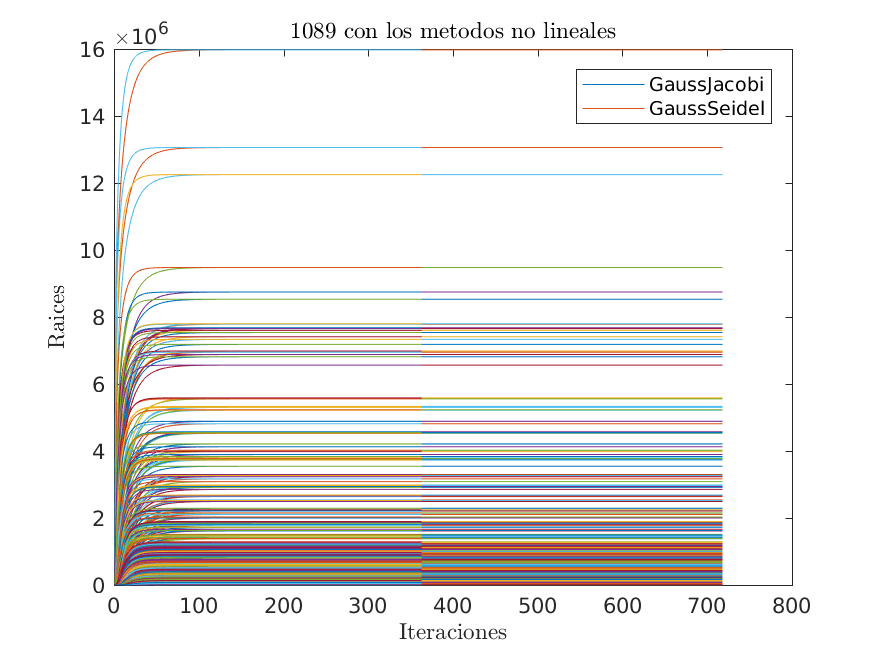
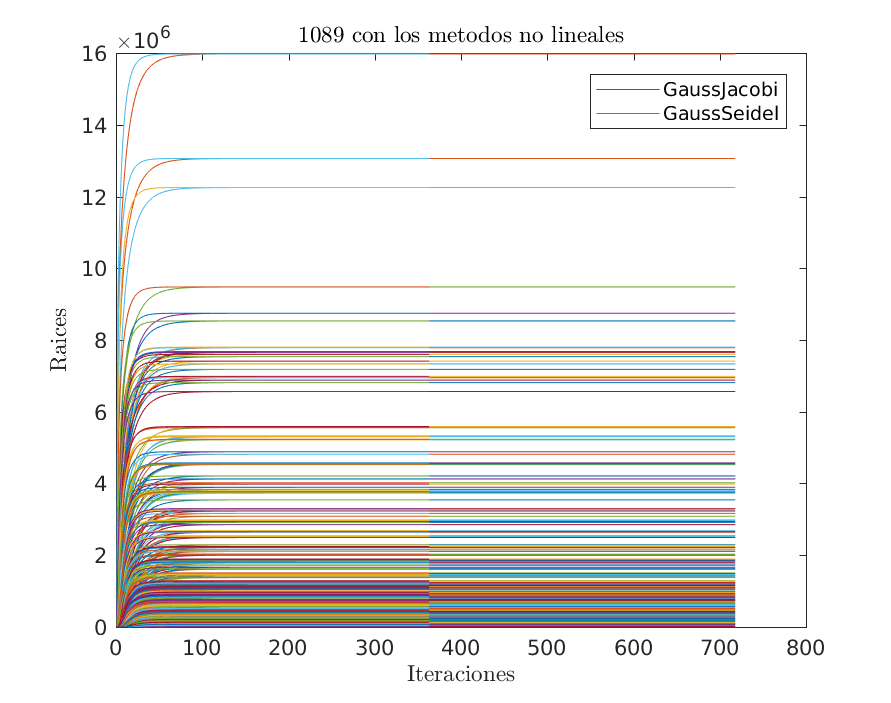
Casi listo

diff --git a/SE/main.m b/SE/main.m
@@ -1,10 +1,12 @@
+
 % Se cargan los datos para el primer sistema
 A1 = load('289x289/A289.dat');
 b1 = load('289x289/b289.dat');
 
-% u = linsolve(A1,b1);
+%u = linsolve(A1,b1);
 
 xInicial1=zeros(1,289);
+disp('Primer sistema');
 [raizGS1,itGS1,timeGS1] = GaussSeidel(A1,b1',xInicial1,1000);
 
 [raizGJ1,itGJ1,timeGJ1] = GaussJacobi(A1,b1',xInicial1,1000);
@@ -15,6 +17,10 @@ xInicial1=zeros(1,289);
 
 [raizQR1,timeQR1] = QR(A1, b1);
 
+[raizHH1,timeHH1] = houseHolder(A1,b1);
+
+%[raizGV1,timeGV1] = givens(A1,b1);
+
 
 % Se cargan los datos para el segundo sistema
 A2 = load('1089x1089/A1089.dat');
@@ -22,6 +28,7 @@ b2 = load('1089x1089/b1089.dat');
 %u = linsolve(A2,b2);
 
 xInicial2=zeros(1,1089);
+disp('Segundo sistema');
 [raizGS2,itGS2,timeGS2] = GaussSeidel(A2,b2',xInicial2,10000);
 
 [raizGJ2,itGJ2,timeGJ2] = GaussJacobi(A2,b2',xInicial2,10000);
@@ -32,36 +39,46 @@ xInicial2=zeros(1,1089);
 
 [raizLLT2,timeLLT2] = LLT(A2,b2');
 
+[raizHH2,timeHH2] = houseHolder(A2,b2);
 
-%Se cargan los datos para el tercer sistema 
-% A3 = load('4225x4225/A4225.dat');
-% b3 = load('4225x4225/b4225.dat');
-% 
+%[raizGV2,timeGV2] = givens(A2,b2);
+
+
+% Se cargan los datos para el tercer sistema 
+A3 = load('4225x4225/A4225.dat');
+b3 = load('4225x4225/b4225.dat');
+
 % u = linsolve(A3,b3);
-% 
-% xInicial3=zeros(1,4225);
-% 
-% disp('Gaussseidel')
-% [raizGS3,itGS3,timeGS3] = GaussSeidel(A3,b3',xInicial3,10000);
-% 
-% disp('GaussJacobi')
-% [raizGJ3,itGJ3,timeGJ3] = GaussJacobi(A3,b3',xInicial3,10000);
-% 
-% disp('LU')
-% [raizLU3,timeLU3] = LU(A3,b3');
-% 
-% disp('QR')
-% [raizQR2,timeQR2] = QR(A3, b3);
-% 
-% disp('LLT')
-% [raizLLT3,timeLLT3] = LLT(A3,b3');
 
-% %Exportar datos en .mat
-% save('data/archivo289.mat','raizGS1','raizGJ1','raizLU1','raizLLT1','raizQR1');
-% save('data/archivo1089.mat','raizGS2','raizGJ2','raizLU2','raizLLT2','raizQR2');
-% save('data/archivo4225.mat','raizGS3','raizGJ3','raizLU3','raizLLT3','raizQR3');
+xInicial3=zeros(1,4225);
+disp('Tercer sistema');
+disp('Gaussseidel')
+[raizGS3,itGS3,timeGS3] = GaussSeidel(A3,b3',xInicial3,10000);
+
+disp('GaussJacobi')
+[raizGJ3,itGJ3,timeGJ3] = GaussJacobi(A3,b3',xInicial3,10000);
+
+disp('LU')
+[raizLU3,timeLU3] = LU(A3,b3');
+
+disp('QR')
+[raizQR3,timeQR3] = QR(A3, b3);
+
+disp('LLT')
+[raizLLT3,timeLLT3] = LLT(A3,b3');
+
+disp('house-holder')
+[raizHH3,timeHH3] = houseHolder(A3,b3);
+
+disp('givens')
+%[raizGV3,timeGV3] = givens(A3,b3);
+
+%Exportar datos en .mat
+save('data/archivo289.mat','raizGS1','raizGJ1','raizLU1','raizLLT1','raizQR1');
+save('data/archivo1089.mat','raizGS2','raizGJ2','raizLU2','raizLLT2','raizQR2');
+save('data/archivo4225.mat','raizGS3','raizGJ3','raizLU3','raizLLT3','raizQR3');
 
 %Graficos
 graficoRaices('289',raizGJ1,raizGS1);
 graficoRaices('1089',raizGJ2,raizGS2);
-%graficoRaices('4225',raizGJ3,raizGS3);
+graficoRaices('4225',raizGJ3,raizGS3);

diff --git a/NMV/main.m b/NMV/main.m
@@ -18,8 +18,8 @@ xInicialNMVF = 0;
 yInicialNMVF = 0;
 
 [matrix,errF1,errF2] = newtonMultivariableDos(xInicialNMVF,yInicialNMVF,iteraciones,f1,f2,df1x,df1y,df2x,df2y,toleranciaNMV);
-graficoNMV2('Funcion1',matrix);
-graficoErrorNMV2('Function1',errF1,errF2);
+graficoNMV2('Sistema 1',matrix);
+graficoErrorNMV2('Sistema 1',errF1,errF2);
 
 
 %EXPORTACION DE DATOS EN .mat
@@ -46,8 +46,8 @@ yInicialNMVG = 0;
 zInicialNMVG = 0;
 
 [matriz,errG1,errG2,errG3] = newtonMultivariableTres(xInicialNMVG,yInicialNMVG,zInicialNMVG,iteraciones,g1,g2,g3,dg1x,dg1y,dg1z,dg2x,dg2y,dg2z,dg3x,dg3y,dg3z,toleranciaNMV);
-graficoNMV3('Funcion2',matriz);
-graficoErrorNMV3('Funcion2',errG1,errG2,errG3);
+graficoNMV3('Sistema 2',matriz);
+graficoErrorNMV3('Sistema 2',errG1,errG2,errG3);
 
 %EXPORTACION DE DATOS EN .mat
 save('data/newtonMV3.mat','matriz','errG1','errG2','errG3');

diff --git a/NL/graficarValores.m b/NL/graficarValores.m
@@ -6,17 +6,18 @@ axes1 = axes('Parent',figure1);
 box(axes1,'on');
 hold(axes1,'on');
 hold on;
+grid on
 
 % Create xlabel
 plot([biseccion],'-k.','MarkerSize',5,'MarkerFaceColor','b'); 
 plot([secante],'-*r','MarkerSize',5,'MarkerFaceColor','r');
 plot([regula],'-+b','MarkerSize',5,'MarkerFaceColor','g'); 
 plot([newton],'-og','MarkerSize',5,'MarkerFaceColor','g'); 
-title(strcat('Raices de: ',name));
+title(strcat('Raíces de: ',name));
 ylabel('Raíces'); % y-axis label
 xlabel('Iteraciones'); % x-axis label
 legend('Bisección','Secante','Regula-Falsi','Newton-Raphson');
 
-saveas(figure1,strcat('imagenes/valores', name) , 'png');
+saveas(figure1,strcat('imagenes/valores', name) , 'jpg');
 
 end

diff --git a/NMV/graficoErrorNMV3.m b/NMV/graficoErrorNMV3.m
@@ -3,6 +3,7 @@ figure1 = figure;
 axes1 = axes('Parent',figure1);
 box(axes1,'on');
 hold(axes1,'on');
+grid on
 
 ylabel({name},'Interpreter','latex');
 
@@ -11,7 +12,6 @@ xlabel('Iteraciones','Interpreter','latex');
 title(strcat(name,': errores con el metodo de Newton Multivariable'),'Interpreter','latex');
 
 hold on;
-
 plot(error1,'-*r','MarkerSize',5,'MarkerFaceColor','r'); 
 plot(error2,'-+b','MarkerSize',5,'MarkerFaceColor','g');
 plot(error3,'-og','MarkerSize',5,'MarkerFaceColor','g');
@@ -19,6 +19,6 @@ hold off;
 
 legend('x1','x2','x3');
 
-saveas(figure1,strcat('imagenes/ErrorNMV2', name) , 'png');
+saveas(figure1,strcat('imagenes/ErrorNMV3', name) , 'jpg');
 
 end

diff --git a/NMV/graficoNMV2.m b/NMV/graficoNMV2.m
@@ -3,19 +3,21 @@ figure1 = figure;
 axes1 = axes('Parent',figure1);
 box(axes1,'on');
 hold(axes1,'on');
+grid on
 
 ylabel({name},'Interpreter','latex');
 
 xlabel('Iteraciones','Interpreter','latex');
 
-title(strcat(name,' con el metodo de Newton Multivariable'),'Interpreter','latex');
+title(strcat(name,': valores con el metodo de Newton Multivariable'),'Interpreter','latex');
 
 hold on;
 plot(matrizNMV(1,:),'-*r','MarkerSize',5,'MarkerFaceColor','r');
 plot(matrizNMV(2,:),'-+b','MarkerSize',5,'MarkerFaceColor','g');
 hold off;
+
 legend('x1','x2');
 
-saveas(figure1,strcat('imagenes/NMV2', name) , 'png');
+saveas(figure1,strcat('imagenes/NMV2', name) , 'jpg');
 
 end

diff --git a/NMV/graficoNMV3.m b/NMV/graficoNMV3.m
@@ -3,13 +3,13 @@ figure1 = figure;
 axes1 = axes('Parent',figure1);
 box(axes1,'on');
 hold(axes1,'on');
+grid on
 
 ylabel({name},'Interpreter','latex');
 
 xlabel('Iteraciones','Interpreter','latex');
 
-title(strcat(name,' con el metodo de Newton Multivariable'),'Interpreter','latex');
-
+title(strcat(name,': valores con el metodo de Newton Multivariable'),'Interpreter','latex');
 
 hold on;
 plot(matrizNMV(1,:),'-*r','MarkerSize',5,'MarkerFaceColor','r');
@@ -19,6 +19,6 @@ hold off;
 
 legend('x1','x2','x3');
 
-saveas(figure1,strcat('imagenes/NMV3', name) , 'png');
+saveas(figure1,strcat('imagenes/NMV3', name) , 'jpg');
 
 end

diff --git a/SE/houseHolder.m b/SE/houseHolder.m
@@ -1,0 +1,31 @@
+function [raiz,time] = houseHolder(A,b)
+    tic;
+    clc;
+    [m n] = size(A);
+
+    R= A;
+    Q = eye(m,m);
+
+    n1=min(m,n);
+
+    for i= 1:n1
+        x = R(i:m, i);
+        s=0;
+
+        if x(1)==0
+            s = 1;
+        else
+            s= sign(x(1));
+        end
+
+        e = zeros(m - i + 1, 1);   
+        e(1)=1;   
+        u = s * norm(x) * e + x;
+        u = u / norm(u);
+        R(i:m, i:n) =  R(i:m, i:n) - 2*(u*u')*R(i:m, i:n);
+        Q(:,i:m) = Q(:,i:m) - Q(:,i:m)*(2*u*u');   
+    end
+    raiz=inv(R)*Q'*b;
+    time = toc;
+
+end

diff --git a/NL/main.m b/NL/main.m
@@ -10,8 +10,8 @@ gd1 = '-2.7183^(-x) - 2*x + 3';
 gd2 = '2.7183^(-x) - 2';
 
 h = 'x^3 - 7*x^2 + 14*sin(2*3.1415*x) - 6';
-hd1 = '3*x^2 - 14*x + 14*2*3.1415*cos(2*3.1415*x)';
-hd2 =  '6*x - 14 - 14*(2*3.1415)^2*sin(2*3.1415*x)';
+hd1 = 'x*(3*x - 14) + 87.962*cos(2*3.1415*x)';
+hd2 =  '6*x - 14 - 552.665*sin(2*3.1415*x)';
 
 %TOLERANCIA
 toleranciaNL = 10^-15;
@@ -21,8 +21,8 @@ af = 0;
 bf = 1; 
 ag = 0; 
 bg = 1;
-ah = 0.1; 
-bh = 1;
+ah = 0; 
+bh = 0.3;
 
 
 %ITERACIONES

diff --git a/NL/graficarErrores.m b/NL/graficarErrores.m
@@ -6,6 +6,7 @@ axes1 = axes('Parent',figure1);
 box(axes1,'on');
 hold(axes1,'on');
 hold on;
+grid on
 
 % Create xlabel
 plot([biseccion],'-k.','MarkerSize',5,'MarkerFaceColor','b'); 
@@ -17,5 +18,5 @@ ylabel('Errores'); % y-axis label
 xlabel('Iteraciones'); % x-axis label
 legend('Bisección','Secante','Regula-Falsi','Newton-Raphson');
 
-saveas(figure1,strcat('imagenes/errores', name) , 'png');
+saveas(figure1,strcat('imagenes/errores', name) , 'jpg');
 end

diff --git a/NMV/graficoErrorNMV2.m b/NMV/graficoErrorNMV2.m
@@ -3,6 +3,7 @@ figure1 = figure;
 axes1 = axes('Parent',figure1);
 box(axes1,'on');
 hold(axes1,'on');
+grid on
 
 ylabel({name},'Interpreter','latex');
 
@@ -17,6 +18,6 @@ hold off;
 
 legend('x1','x2')
 
-saveas(figure1,strcat('imagenes/ErrorNMV3', name) , 'png');
+saveas(figure1,strcat('imagenes/ErrorNMV2', name) , 'jpg');
 
 end

diff --git a/SE/givens.m b/SE/givens.m
@@ -1,4 +1,5 @@
-function [Q,R]=givens(A)
+function [raiz,time]=givens(A,b)
+    tic;
     [m,n]=size(A);
     Q=eye(m);
     R=A;
@@ -18,4 +19,6 @@ function [Q,R]=givens(A)
             end
         end
     end
+    raiz=inv(R)*Q'*b;
+    time = toc;
 end 
